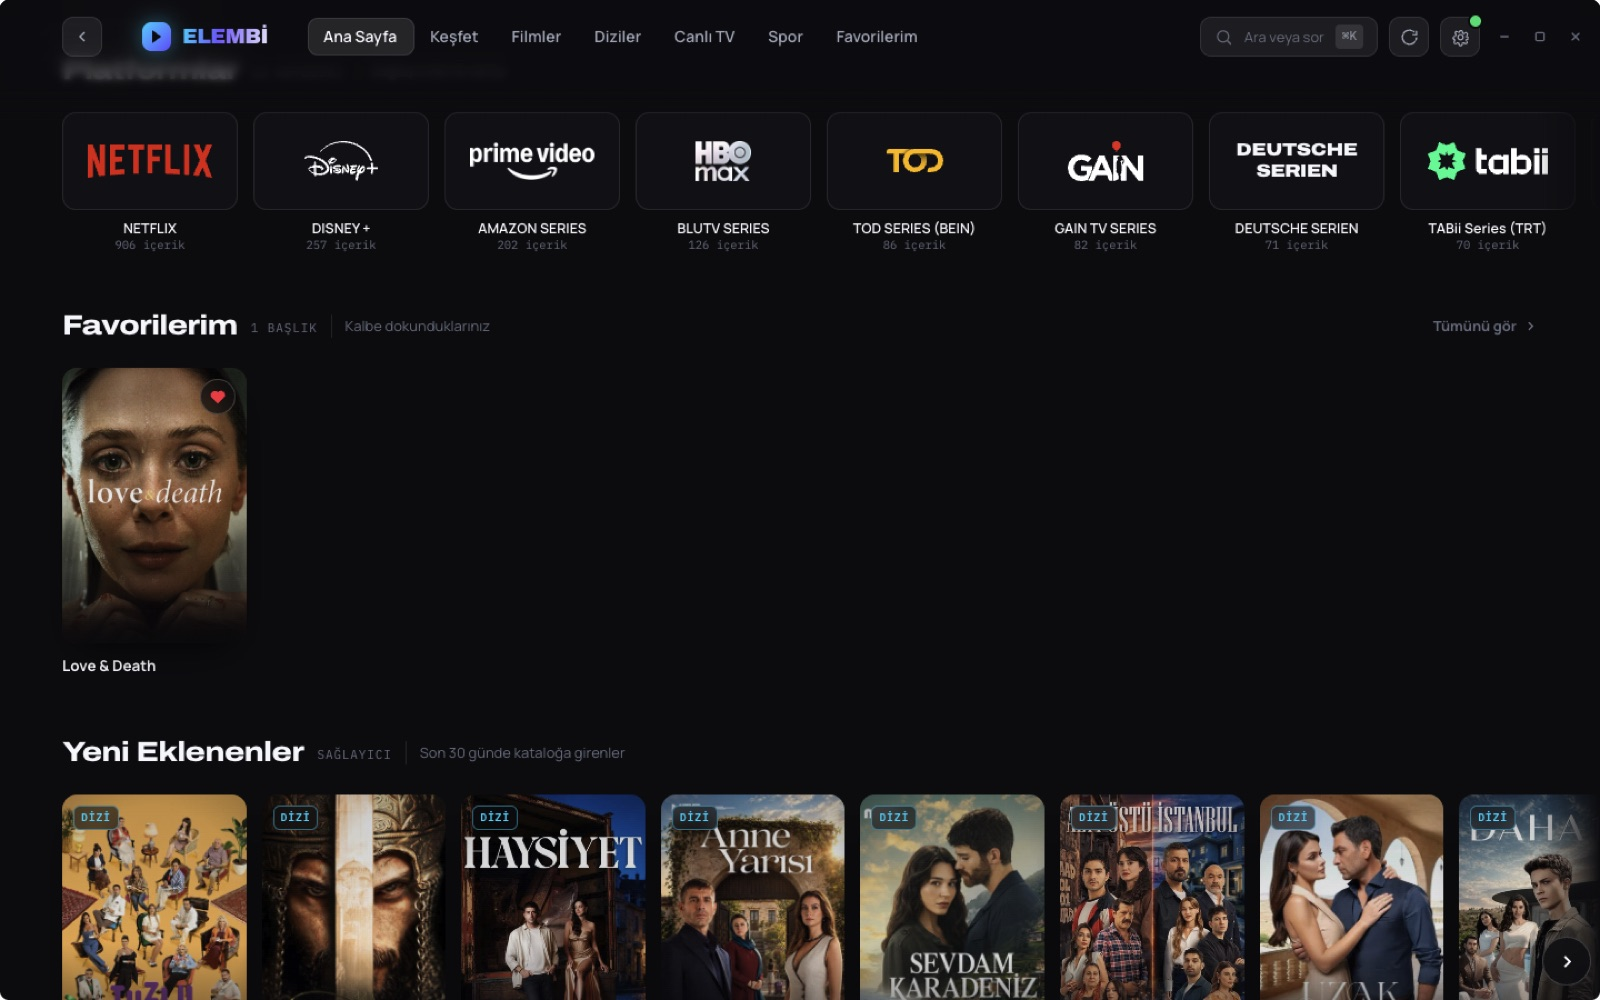
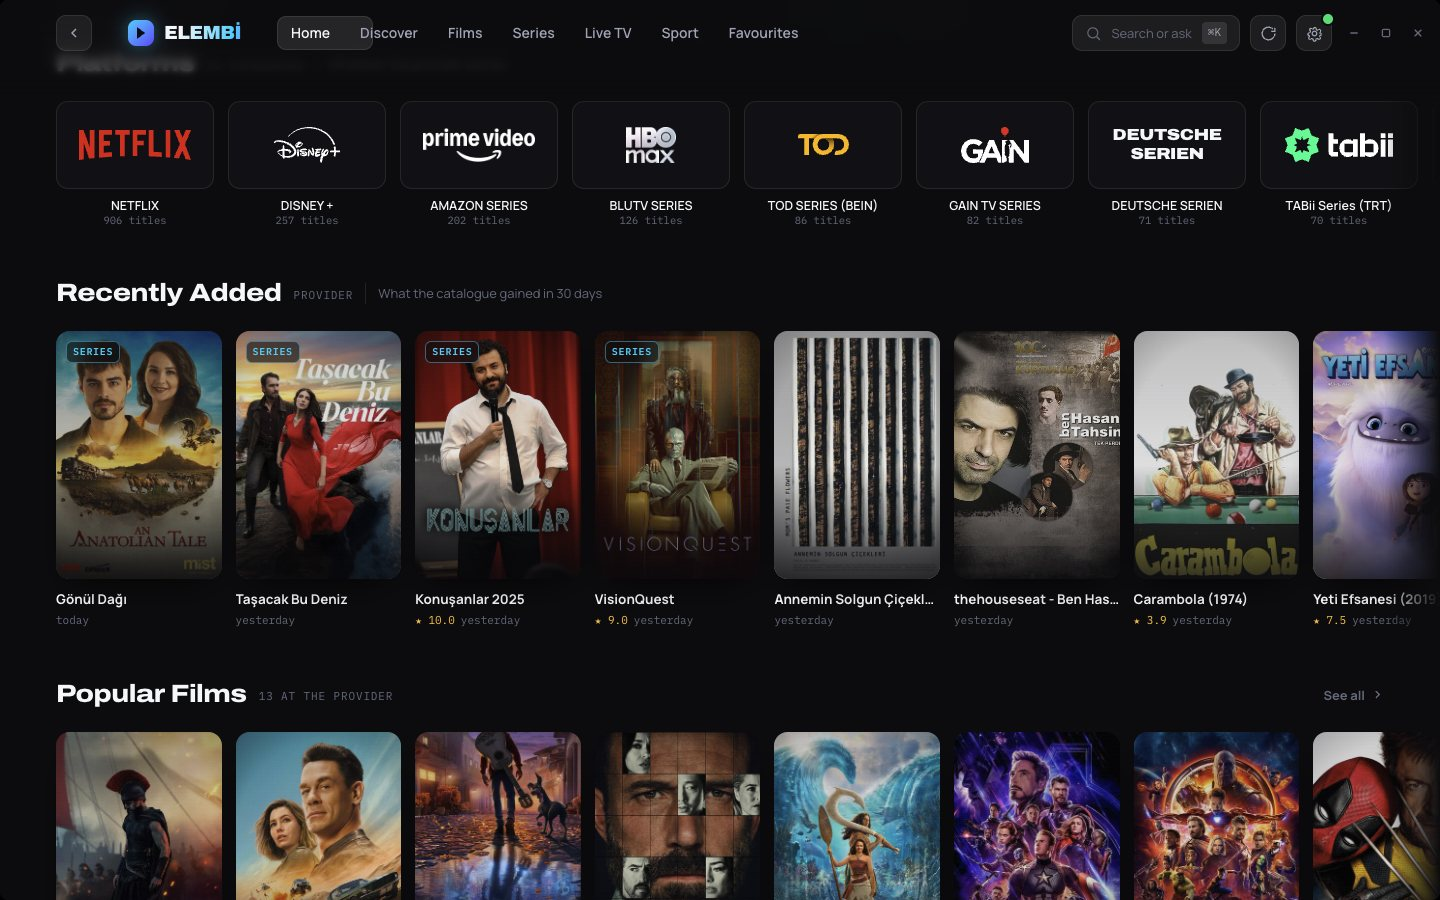
chore(docs): retake the screenshots in English
The shots were Turkish, which is the wrong language for the readme of a
public repository, and the tool could not take them any other way: it
navigates by clicking controls named in the sequence, and every name was
a Turkish literal. They are dictionary keys now, resolved at capture
time, so the run follows whatever language the app is in.

Two things that were broken rather than merely Turkish:

The mask that blanks the subscription before a shot looked at div, span
and td. The about page's table is a <dl>, so its values were never
examined and the data folder — which carries the account name — went
into a public screenshot unmasked. Its label list was Turkish literals
too, so an English run masked nothing at all.

The sequence wrote PNG while the readme links .jpg, so every run needed
a conversion by hand. It writes JPEG now: 190 KB a shot rather than 4 MB.

The hero is pinned to a title instead of being whatever the rotation
happened to be showing. Not Verity, which is what it was meant to be:
the provider calls that one "Verity: Gerçeğin Diğer Kıyısı", which the
Turkish TMDB title matches and the English one does not, so in English
it is not in the hero to pin.

diff --git a/src/main/devshots.ts b/src/main/devshots.ts
@@ -1,6 +1,9 @@
 import { app, type BrowserWindow } from 'electron'
 import { mkdirSync, writeFileSync } from 'node:fs'
 import { join } from 'node:path'
+import { makeT } from '../shared/i18n'
+import { uiLang } from './i18n'
+import type { Key } from '../shared/i18n'
 
 /**
  * Captures the real interface for the README, driven from inside the app.
@@ -53,11 +56,10 @@ const SCROLL = `(function (y) {
  * went into a public repository once. Masking here rather than remembering not
  * to capture the page: the next person to add a step should not have to know.
  */
-const MASK = `(function () {
+const MASK = `(function (labels) {
   const SECRET = /^https?:\\/\\//
-  const labels = ['sunucu', 'kullanıcı', 'veri klasörü']
   let hidden = 0
-  for (const el of document.querySelectorAll('div, span, td')) {
+  for (const el of document.querySelectorAll('div, span, td, dd')) {
     const text = (el.textContent || '').trim()
     if (el.children.length > 0 || !text) continue
     const label = (el.previousElementSibling?.textContent || '').trim().toLowerCase()
@@ -69,10 +71,42 @@ const MASK = `(function () {
   return 'maskelendi:' + hidden
 })`
 
+const HERO = `(async function (wanted) {
+  const sleep = (ms) => new Promise((r) => setTimeout(r, ms))
+  const want = wanted.toLowerCase()
+  const hero = document.querySelector('section[class*="76vh"]')
+  if (!hero) return 'hero yok'
+  /* The title is a logo image when TMDB has one, an <h1> otherwise. */
+  const titleOf = () => {
+    const img = hero.querySelector('img[alt]')
+    const h1 = hero.querySelector('h1')
+    return ((img && img.alt) || (h1 && h1.textContent) || '').trim()
+  }
+  const count = hero.querySelectorAll('button[aria-current]').length
+  if (titleOf().toLowerCase().includes(want)) return 'hero:' + titleOf()
+  for (let i = 0; i < count; i++) {
+    /* Re-queried each time: React replaces these on every slide change. */
+    const dots = hero.querySelectorAll('button[aria-current]')
+    if (!dots[i]) break
+    dots[i].click()
+    await sleep(520)
+    if (titleOf().toLowerCase().includes(want)) return 'hero:' + titleOf()
+  }
+  const first = hero.querySelectorAll('button[aria-current]')[0]
+  if (first) {
+    first.click()
+    await sleep(520)
+  }
+  return 'hero bulunamadı:' + wanted + ' (' + titleOf() + ')'
+})`
+
 interface Step {
   name: string
-  /** Controls to click in order before the shot is taken. */
-  path?: [string, number?][]
+  /** Controls to click in order before the shot is taken, named by dictionary
+      key so the sequence works in whatever language the app is in. */
+  path?: [Key, number?][]
+  /** Pins the hero on the title whose name contains this, before capturing. */
+  hero?: string
   /** How far down the page to scroll, for rows below the fold. */
   scroll?: number
   /** Blanks the subscription's address and username before capturing. */
@@ -80,38 +114,65 @@ interface Step {
   settle?: number
 }
 
+/*
+ * The title the hero is pinned to, so the shot does not depend on where the
+ * rotation happened to be. Change this to feature something else; a title the
+ * hero is not carrying falls back to the first slide rather than failing.
+ *
+ * Not every title can be pinned in every language. The provider names this
+ * one's Turkish release "Verity: Gerçeğin Diğer Kıyısı", which the Turkish
+ * TMDB title matches and the English one ("Verity") does not — so in English
+ * it is not in the hero at all.
+ */
+const HERO_TITLE = 'Avengers: Endgame'
+
 const STEPS: Step[] = [
-  { name: '01-home', settle: 3000 },
+  { name: '01-home', hero: HERO_TITLE, settle: 3000 },
   /* Platforms sit directly under the hero now, so the old 1520 scrolled past them. */
-  { name: '02-platforms', scroll: 600, settle: 2600 },
+  { name: '02-platforms', hero: HERO_TITLE, scroll: 600, settle: 2600 },
   { name: '03-home-rows', scroll: 1180, settle: 2600 },
-  { name: '04-live-tv', path: [['Canlı TV']], settle: 2600 },
-  { name: '05-movies', path: [['Filmler']], settle: 2600 },
-  { name: '06-series', path: [['Diziler']], settle: 2600 },
-  { name: '07-sports', path: [['Spor']], settle: 2600 },
-  { name: '08-discover', path: [['Keşfet']], settle: 2800 },
-  { name: '09-detail', path: [['Detayı aç']], settle: 7000 },
-  { name: '10-detail-cast', path: [['Detayı aç']], scroll: 1100, settle: 7000 },
-  { name: '11-favorites', path: [['Favorilerim']], settle: 2600 },
-  { name: '12-settings', path: [['Ayarlar ve sağlayıcı']], settle: 1800, mask: true },
-  { name: '13-about', path: [['Ayarlar ve sağlayıcı'], ['Hakkında']], settle: 1600, mask: true },
-  { name: '14-help', path: [['Ayarlar ve sağlayıcı'], ['Yardım']], settle: 1600 },
-  { name: '15-privacy', path: [['Ayarlar ve sağlayıcı'], ['Gizlilik politikası']], settle: 1600 },
-  { name: '16-setup', path: [['Ayarlar ve sağlayıcı'], ['Aboneliği değiştir']], settle: 1800 }
+  { name: '04-live-tv', path: [['nav.live']], settle: 2600 },
+  { name: '05-movies', path: [['nav.movies']], settle: 2600 },
+  { name: '06-series', path: [['nav.series']], settle: 2600 },
+  { name: '07-sports', path: [['nav.sports']], settle: 2600 },
+  { name: '08-discover', path: [['nav.discover']], settle: 2800 },
+  { name: '09-detail', path: [['common.openDetail']], settle: 7000 },
+  { name: '10-detail-cast', path: [['common.openDetail']], scroll: 1100, settle: 7000 },
+  { name: '11-favorites', path: [['nav.favorites']], settle: 2600 },
+  { name: '12-settings', path: [['shell.settings']], settle: 1800, mask: true },
+  { name: '13-about', path: [['shell.settings'], ['info.tab.about']], settle: 1600, mask: true },
+  { name: '14-help', path: [['shell.settings'], ['info.tab.help']], settle: 1600 },
+  { name: '15-privacy', path: [['shell.settings'], ['info.tab.privacy']], settle: 1600 },
+  { name: '16-setup', path: [['shell.settings'], ['set.editProvider']], settle: 1800 }
 ]
 
 export async function captureShots(win: BrowserWindow): Promise<void> {
   mkdirSync(OUT, { recursive: true })
+  /* Labels come from the dictionary, so the run follows the app's language. */
+  const t = makeT(uiLang())
+  const masked = [t('set.host'), t('set.user'), t('info.about.dataDir')].map((label) =>
+    label.toLowerCase()
+  )
+  process.stdout.write(`  dil: ${uiLang()}\n`)
+
   /* The provider toast clears after 4.5s and artwork lands later; wait it out. */
   await wait(12000)
 
   for (const step of STEPS) {
     /* Home first every time, so a step never inherits the last one's view. */
-    await win.webContents.executeJavaScript(`${CLICK}('Ana Sayfa')`).catch(() => null)
+    await win.webContents.executeJavaScript(`${CLICK}(${JSON.stringify(t('nav.home'))})`).catch(() => null)
     await win.webContents.executeJavaScript(`${SCROLL}(0)`).catch(() => null)
     await wait(1400)
 
-    for (const [label, nth] of step.path ?? []) {
+    if (step.hero) {
+      const said = await win.webContents
+        .executeJavaScript(`${HERO}(${JSON.stringify(step.hero)})`)
+        .catch(() => 'hata')
+      process.stdout.write(`  ${step.name}: ${said}\n`)
+    }
+
+    for (const [key, nth] of step.path ?? []) {
+      const label = t(key)
       const said = await win.webContents
         .executeJavaScript(`${CLICK}(${JSON.stringify(label)}, ${nth ?? 0})`)
         .catch(() => 'hata')
@@ -120,7 +181,9 @@ export async function captureShots(win: BrowserWindow): Promise<void> {
     }
 
     if (step.mask) {
-      const said = await win.webContents.executeJavaScript(`${MASK}()`).catch(() => 'hata')
+      const said = await win.webContents
+        .executeJavaScript(`${MASK}(${JSON.stringify(masked)})`)
+        .catch(() => 'hata')
       process.stdout.write(`  ${step.name}: ${said}\n`)
     }
 
@@ -134,9 +197,10 @@ export async function captureShots(win: BrowserWindow): Promise<void> {
     win.focus()
     await wait(600)
     const image = await win.webContents.capturePage()
-    writeFileSync(join(OUT, `${step.name}.png`), image.toPNG())
+    /* JPEG, because that is what the README links and a PNG of this is 4 MB. */
+    writeFileSync(join(OUT, `${step.name}.jpg`), image.toJPEG(84))
     const size = image.getSize()
-    process.stdout.write(`  ${step.name}.png  ${size.width}x${size.height}\n`)
+    process.stdout.write(`  ${step.name}.jpg  ${size.width}x${size.height}\n`)
   }
 
   process.stdout.write('  bitti\n')
